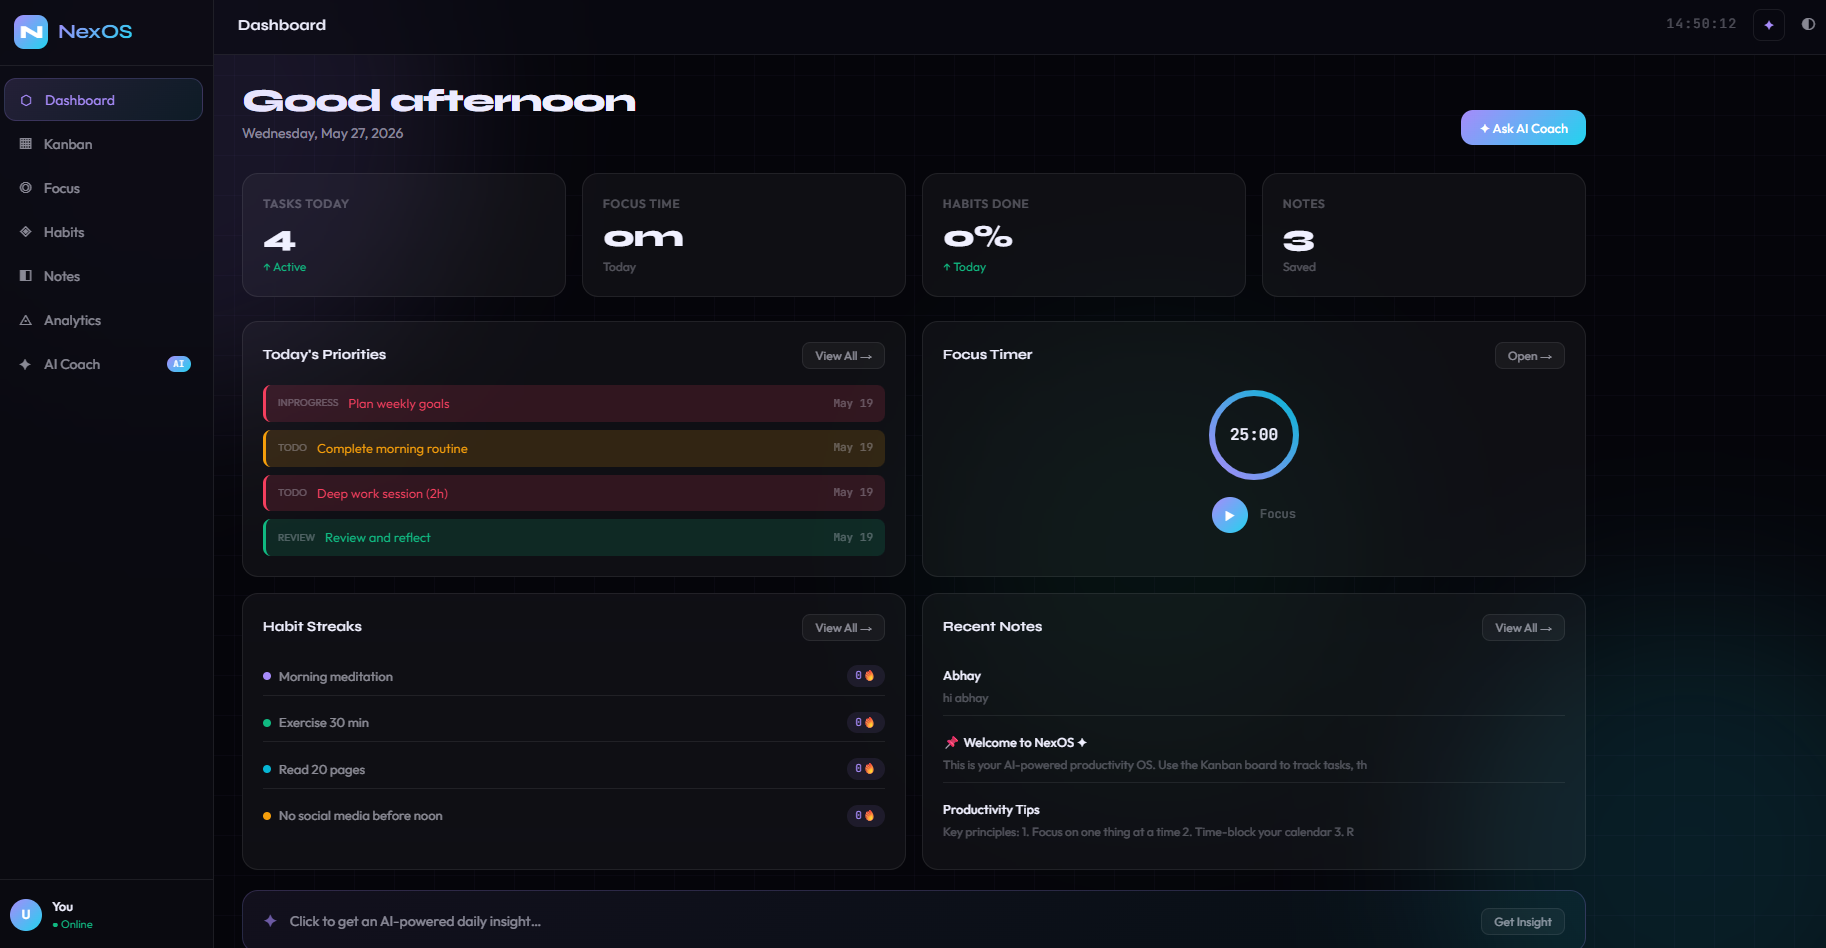
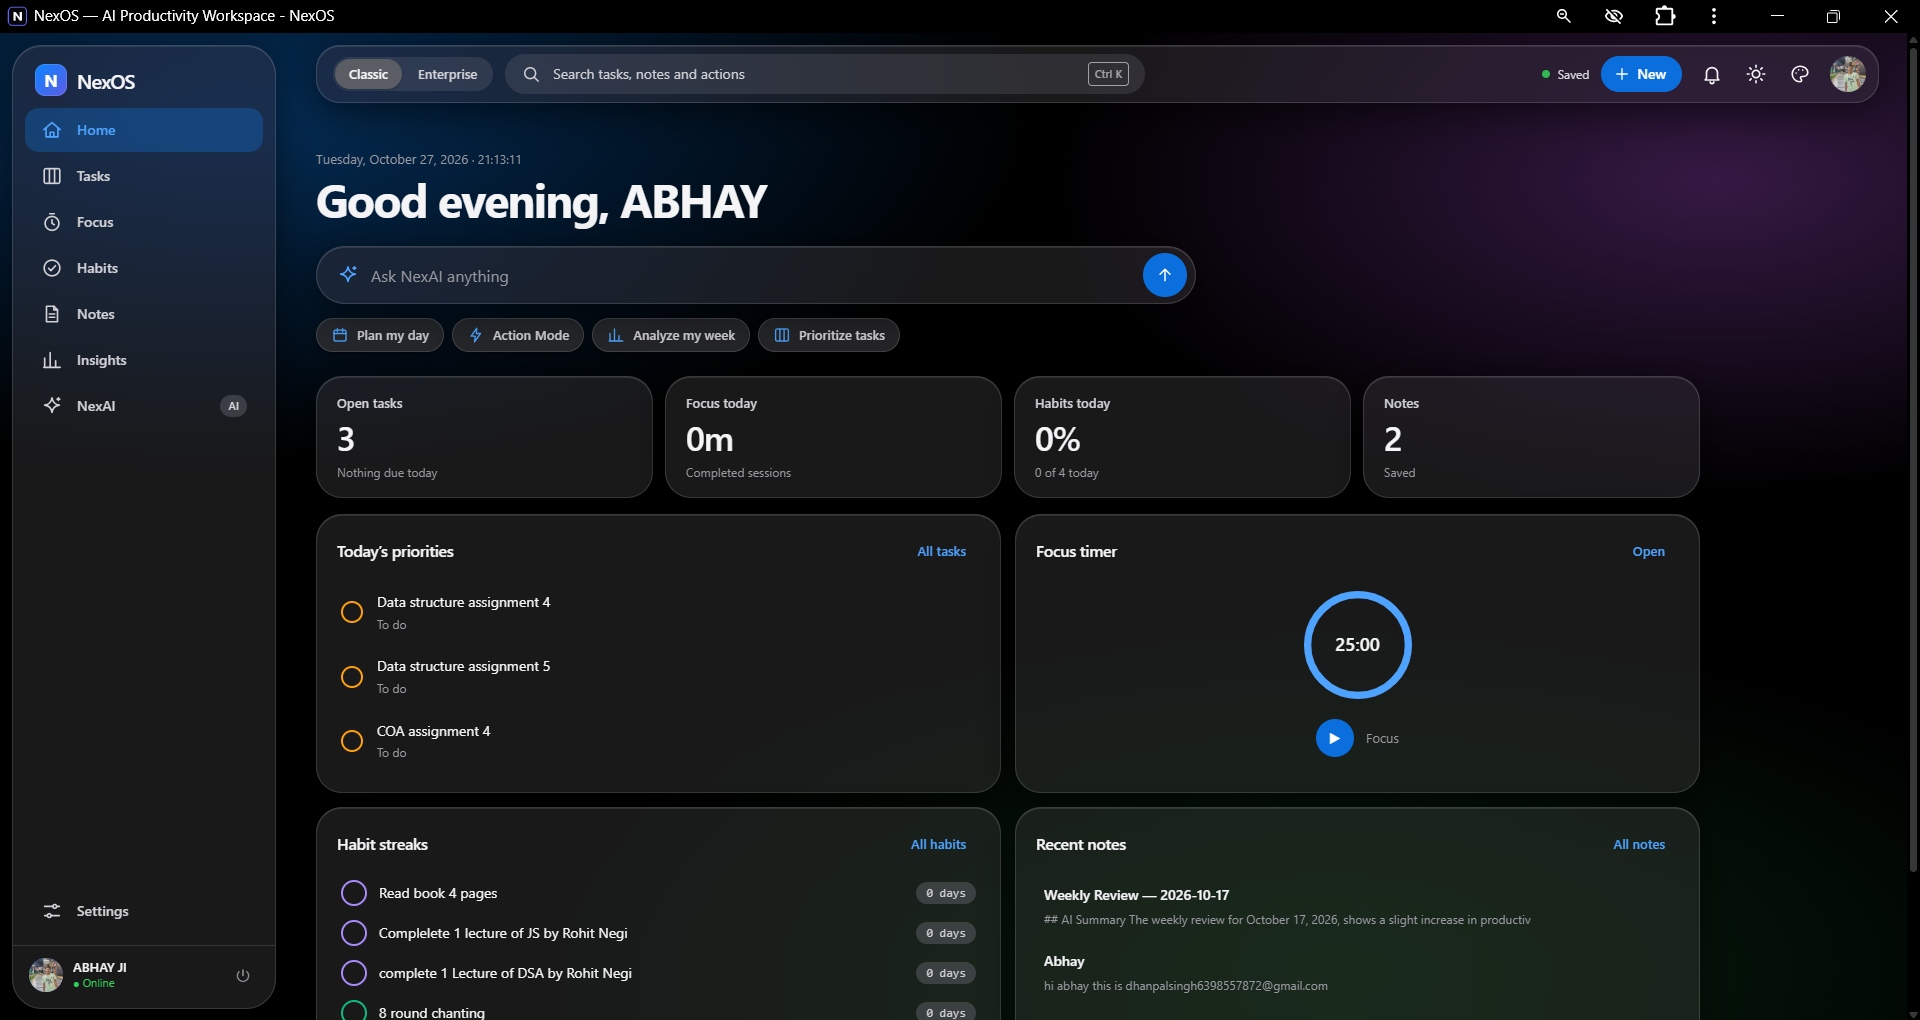
Updated Projrcts - Added Kartik-maas

diff --git a/index.html b/index.html
@@ -163,17 +163,6 @@
                 <div class="project-container">
 
                     <div class="project">
-                        <a href="https://abhayyadav0090.github.io/portfolio2/" target="_blank">
-                            <img src="PNGs/portfolio2.png" alt="Project 1">
-                        </a>
-                        <div class="card">
-                            <h3>Simple Portfolio</h3>
-                            <p>A basic portfolio website to showcase my skills and projects.</p>
-                            <span>HTML</span>
-                            <span>CSS</span>
-                        </div>
-                    </div>
-                    <div class="project">
                         <a href="https://ai-aqit.onrender.com/" target="_blank">
                             <img src="PNGs/productivity-website.png" alt="Project 2">
                         </a>
@@ -183,6 +172,39 @@
                             <span>HTML</span>
                             <span>CSS</span>
                             <span>JavaScript</span>
+                            <span>Node.js</span>
+                            <span>Express</span>
+                            <span>MongoDB</span>
+                            
+                        </div>
+                    </div>
+                    <div class="project">
+                        <a href="https://kartik-maas.onrender.com/" target="_blank">
+                            <img src="PNGs/kartik-maas.png" alt="Kartik Maas">
+                        </a>
+                        <div class="card">
+                            <h3>Kartik Maas</h3>
+                            <p>A 30-day daily practice tracker for Kartik month, with custom vows, reminders, user login and progress analysis.</p>
+                            <span>HTML</span>
+                            <span>CSS</span>
+                            <span>JavaScript</span>
+                            <span>Node.js</span>
+                            <span>Express</span>
+                            <span>MongoDB</span>
+                        </div>
+                    </div>
+                    <div class="project">
+                        <a href="https://jana-samadhan.vercel.app/" target="_blank">
+                            <img src="PNGs/janasamadhan.png" alt="Jan Samadhan">
+                        </a>
+                        <div class="card">
+                            <h3>Jan Samadhan</h3>
+                            <p>A community problem-solving platform where citizens can report local issues, with AI-powered assistance using Gemini API.</p>
+                            <span>React</span>
+                            <span>Node.js</span>
+                            <span>Express</span>
+                            <span>MongoDB</span>
+                            <span>Tailwind CSS</span>
                         </div>
                     </div>
                     <div class="project">
@@ -197,17 +219,14 @@
                         </div>
                     </div>
                     <div class="project">
-                        <a href="https://jana-samadhan.vercel.app/" target="_blank">
-                            <img src="PNGs/janasamajdhan.png" alt="Jan Samadhan">
+                        <a href="https://abhayyadav0090.github.io/portfolio2/" target="_blank">
+                            <img src="PNGs/portfolio2.png" alt="Project 1">
                         </a>
                         <div class="card">
-                            <h3>Jan Samadhan</h3>
-                            <p>A community problem-solving platform where citizens can report local issues, with AI-powered assistance using Gemini API.</p>
-                            <span>React</span>
-                            <span>Node.js</span>
-                            <span>Express</span>
-                            <span>MongoDB</span>
-                            <span>Tailwind CSS</span>
+                            <h3>Simple Portfolio</h3>
+                            <p>A basic portfolio website to showcase my skills and projects.</p>
+                            <span>HTML</span>
+                            <span>CSS</span>
                         </div>
                     </div>
                     
